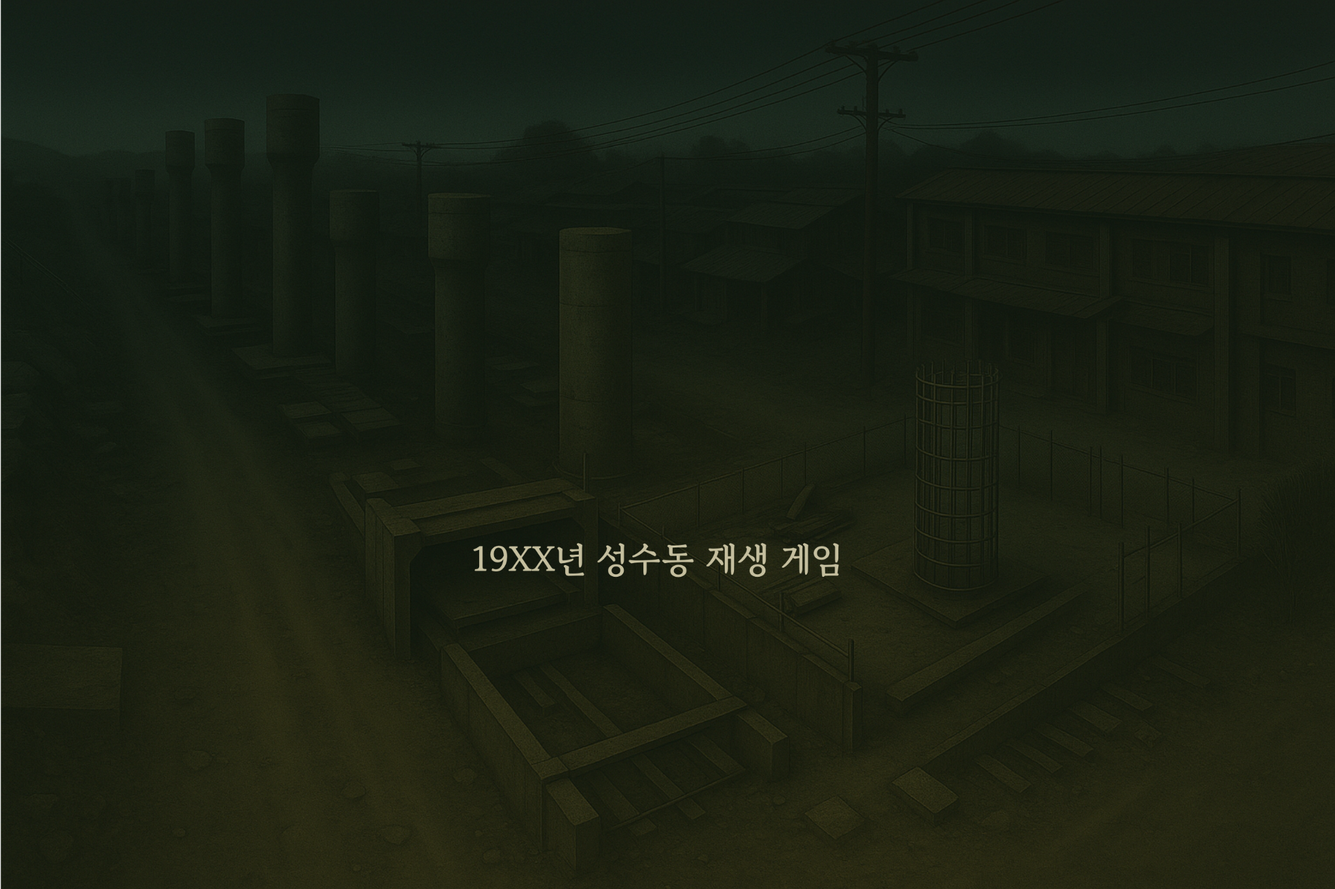
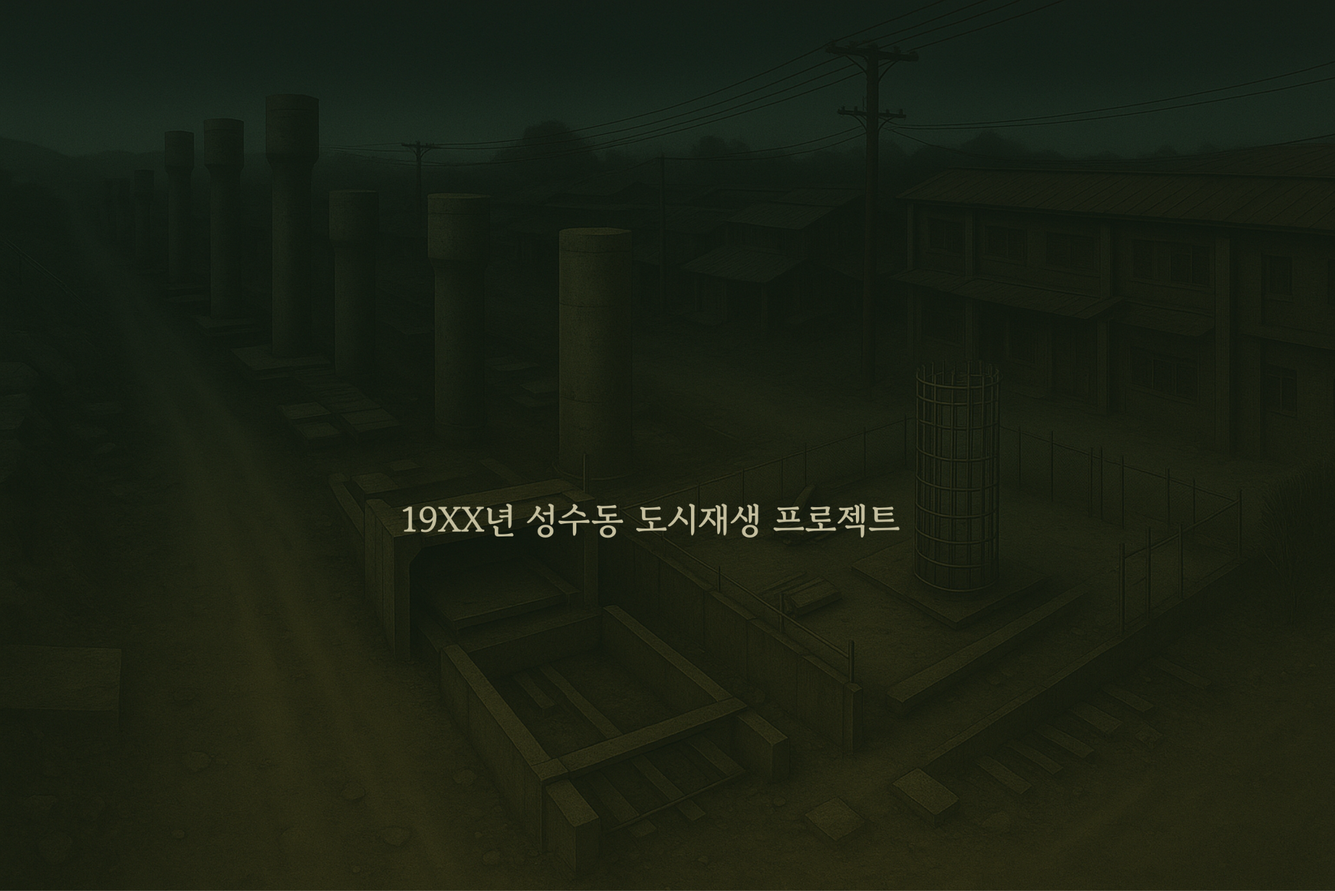
시작스크린 수정, 아이콘 외 화면 누를 때 넘어가는 문제 수정

Changed region(s): [[0.3125, 0.5543, 0.6875, 0.6466]]

diff --git a/navigationButtons.js b/navigationButtons.js
@@ -67,24 +67,44 @@ function mousePressed() {
     return;
   }
   
+  // if (choices[currentKey]) {
+  //   for (let c of choices[currentKey]) {
+  //     if (mouseX >= c.x - c.w / 2 && mouseX <= c.x + c.w / 2 &&
+  //         mouseY >= c.y - c.h / 2 && mouseY <= c.y + c.h / 2) {
+  //       // screenHistory.push(currentKey);
+  //       // currentKey = c.next;
+  //       // redraw();
+  //       // return;
+  //       screenHistory.push(currentKey);
+  //       currentKey = c.next;
+  //       enterNewScreen(c.next);
+  //       if (c.next === 'screen15-pose') {
+  //         loop();
+  //       }
+  //       redraw();
+  //       return;
+  //     }
+  //   }
+  // }
+
   if (choices[currentKey]) {
+    // 아이콘 중 하나라도 클릭됐는지 검사
     for (let c of choices[currentKey]) {
-      if (mouseX >= c.x - c.w / 2 && mouseX <= c.x + c.w / 2 &&
-          mouseY >= c.y - c.h / 2 && mouseY <= c.y + c.h / 2) {
-        // screenHistory.push(currentKey);
-        // currentKey = c.next;
-        // redraw();
-        // return;
+      if (
+        mouseX >= c.x - c.w/2 && mouseX <= c.x + c.w/2 &&
+        mouseY >= c.y - c.h/2 && mouseY <= c.y + c.h/2
+      ) {
+        // 클릭된 아이콘 처리
         screenHistory.push(currentKey);
         currentKey = c.next;
         enterNewScreen(c.next);
-        if (c.next === 'screen15-pose') {
-          loop();
-        }
+        if (c.next === 'screen15-pose') loop();
         redraw();
-        return;
+        return; // 아이콘 클릭 시에만 여기서 종료
       }
     }
+    // ※ 아이콘 클릭이 아닌 다른 영역 클릭 시에는 아무 동작도 하지 않도록 바로 종료
+    return;
   }
 
   let next = storyMap[currentKey];
